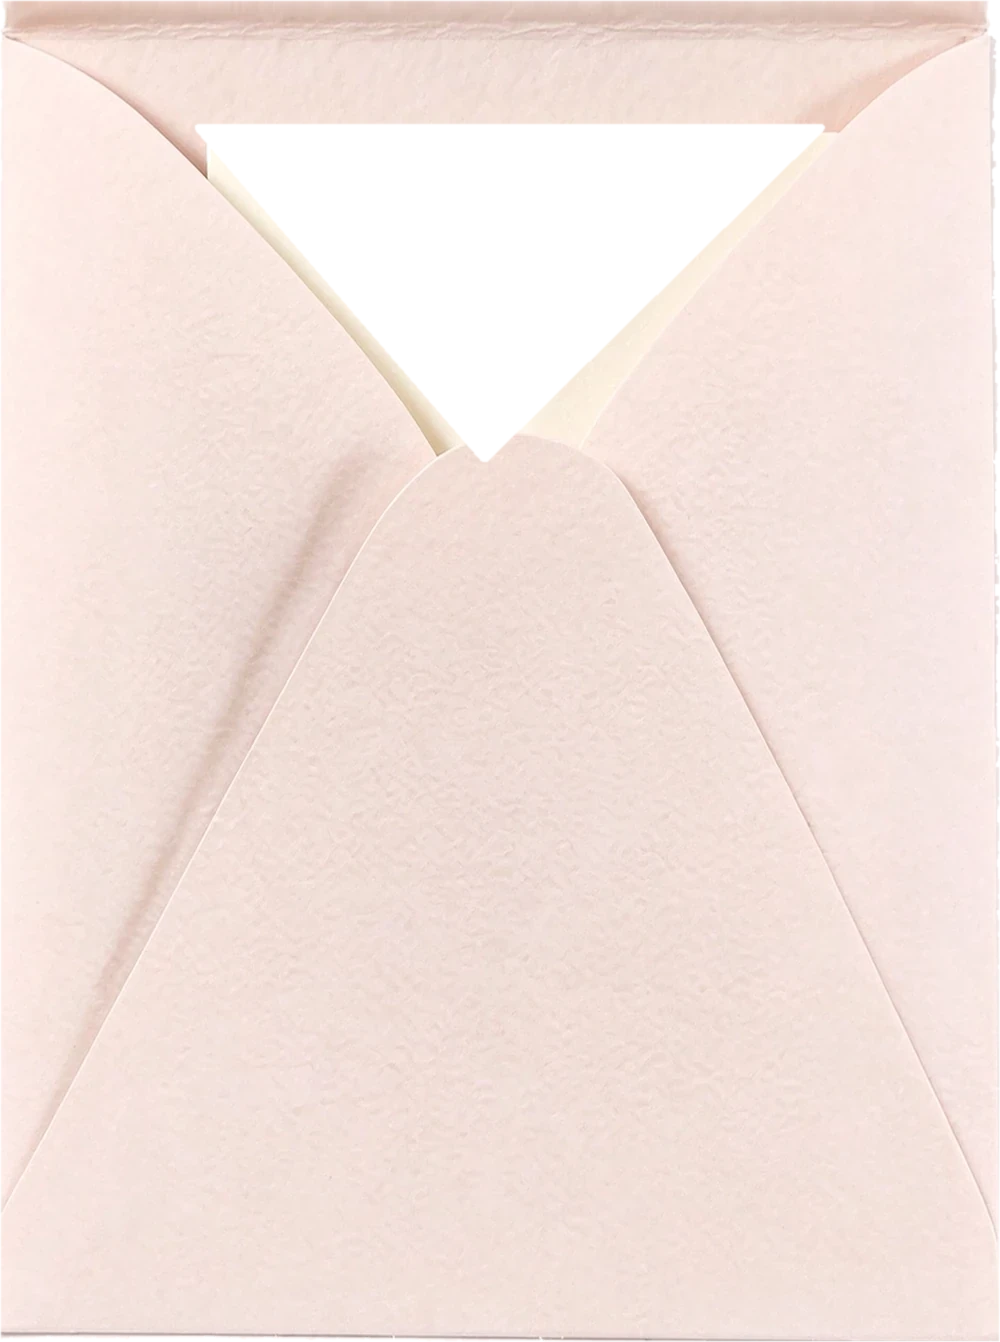
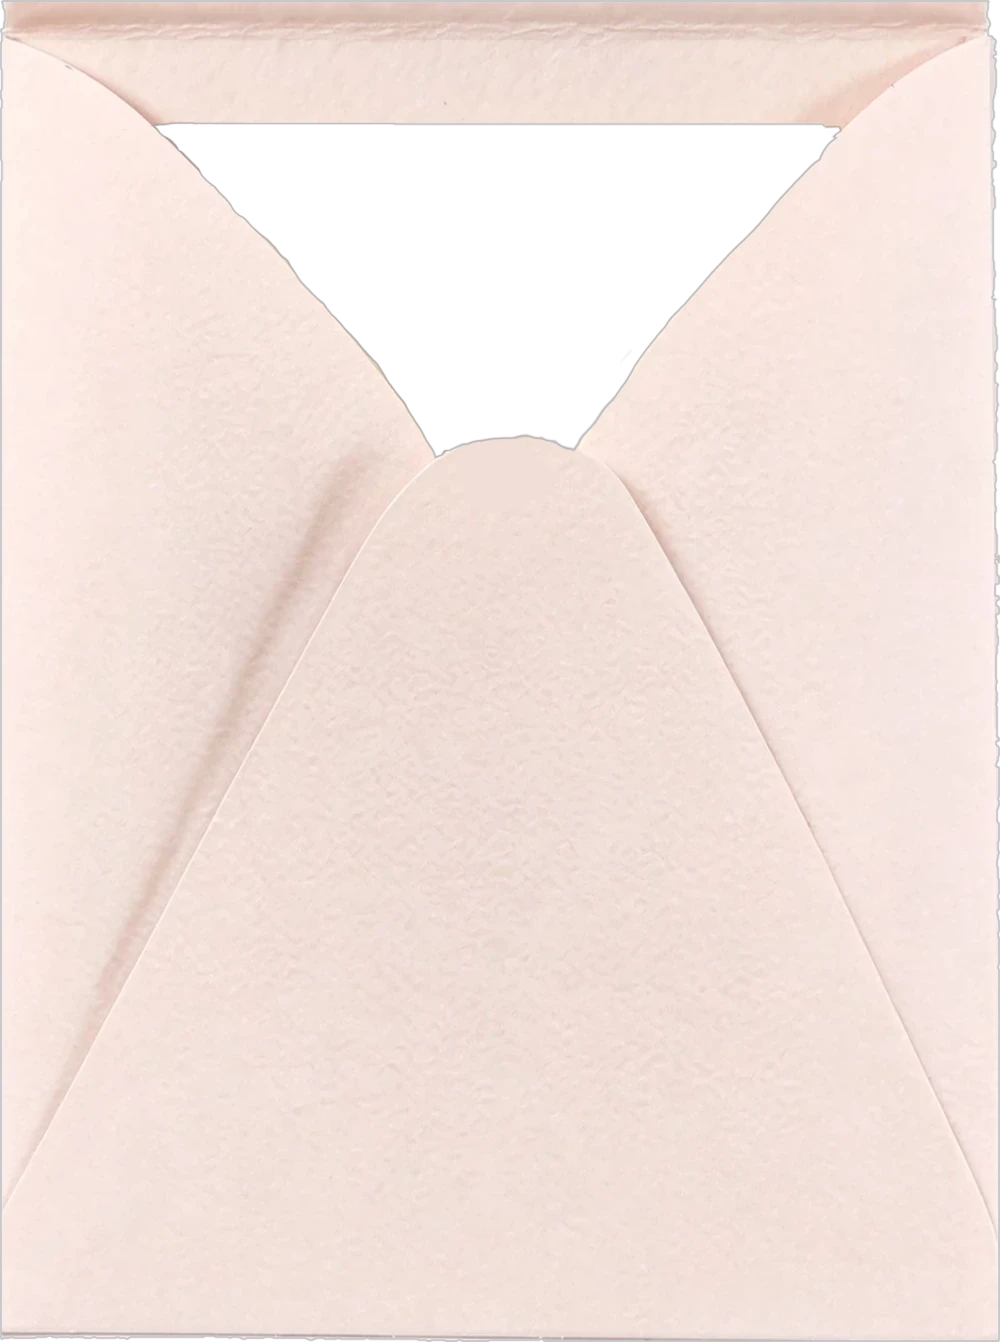
Add files via upload

diff --git a/slotText.js b/slotText.js
@@ -281,6 +281,7 @@ export const PAGE_BOXES = {
 
 const BODY_FRACTION = 0.066;   // of page height, before fitting
 const PAGE_MIN_SCALE = 0.40;
+const PAGE_MAX_SCALE = 2.40;   // the letter may grow past 1.0 to fill the pages
 const PAGE_LINE_HEIGHT = 1.40;
 const PAGE_SCALE_STEP = 0.02;
 
@@ -372,17 +373,28 @@ export function drawTwoPageLetter(leftCanvas, rightCanvas, card) {
   const measure = (line) => ctxL.measureText(line).width / REF_PX;
   const aspect = leftCanvas.width / leftCanvas.height;
 
-  // One shared scale: the biggest body size that fits BOTH pages.
-  let scale = 1;
-  let L = null;
-  let R = null;
-  for (; scale >= PAGE_MIN_SCALE - 1e-9; scale -= PAGE_SCALE_STEP) {
-    const s = Math.round(scale * 100) / 100;
-    L = bodyMetrics(leftText, "left", s, measure, aspect);
-    R = bodyMetrics(rightText, "right", s, measure, aspect);
-    if (L.fits && R.fits) { scale = s; break; }
+  // One shared scale: the biggest body size that fits BOTH pages. Search
+  // upward too, so a short letter fills the page instead of using 1.0.
+  const probe = (s) => {
+    const l = bodyMetrics(leftText, "left", s, measure, aspect);
+    const r = bodyMetrics(rightText, "right", s, measure, aspect);
+    return l.fits && r.fits ? { l, r } : null;
+  };
+  let scale = PAGE_MAX_SCALE;
+  let found = probe(scale);
+  if (!found) {
+    let lo = PAGE_MIN_SCALE;
+    let hi = PAGE_MAX_SCALE;
+    for (let i = 0; i < 18; i += 1) {
+      const mid = Math.round(((lo + hi) / 2) / PAGE_SCALE_STEP) * PAGE_SCALE_STEP;
+      if (!(mid > lo && mid < hi)) break;
+      if (probe(mid)) lo = mid; else hi = mid;
+    }
+    scale = Math.max(PAGE_MIN_SCALE, Math.floor(lo / PAGE_SCALE_STEP) * PAGE_SCALE_STEP);
+    found = probe(scale);
   }
-  scale = Math.max(scale, PAGE_MIN_SCALE);
+  const L = found ? found.l : bodyMetrics(leftText, "left", scale, measure, aspect);
+  const R = found ? found.r : bodyMetrics(rightText, "right", scale, measure, aspect);
 
   const bodyPx = BODY_FRACTION * scale * leftCanvas.height;
   const bodyLH = bodyPx * PAGE_LINE_HEIGHT;
